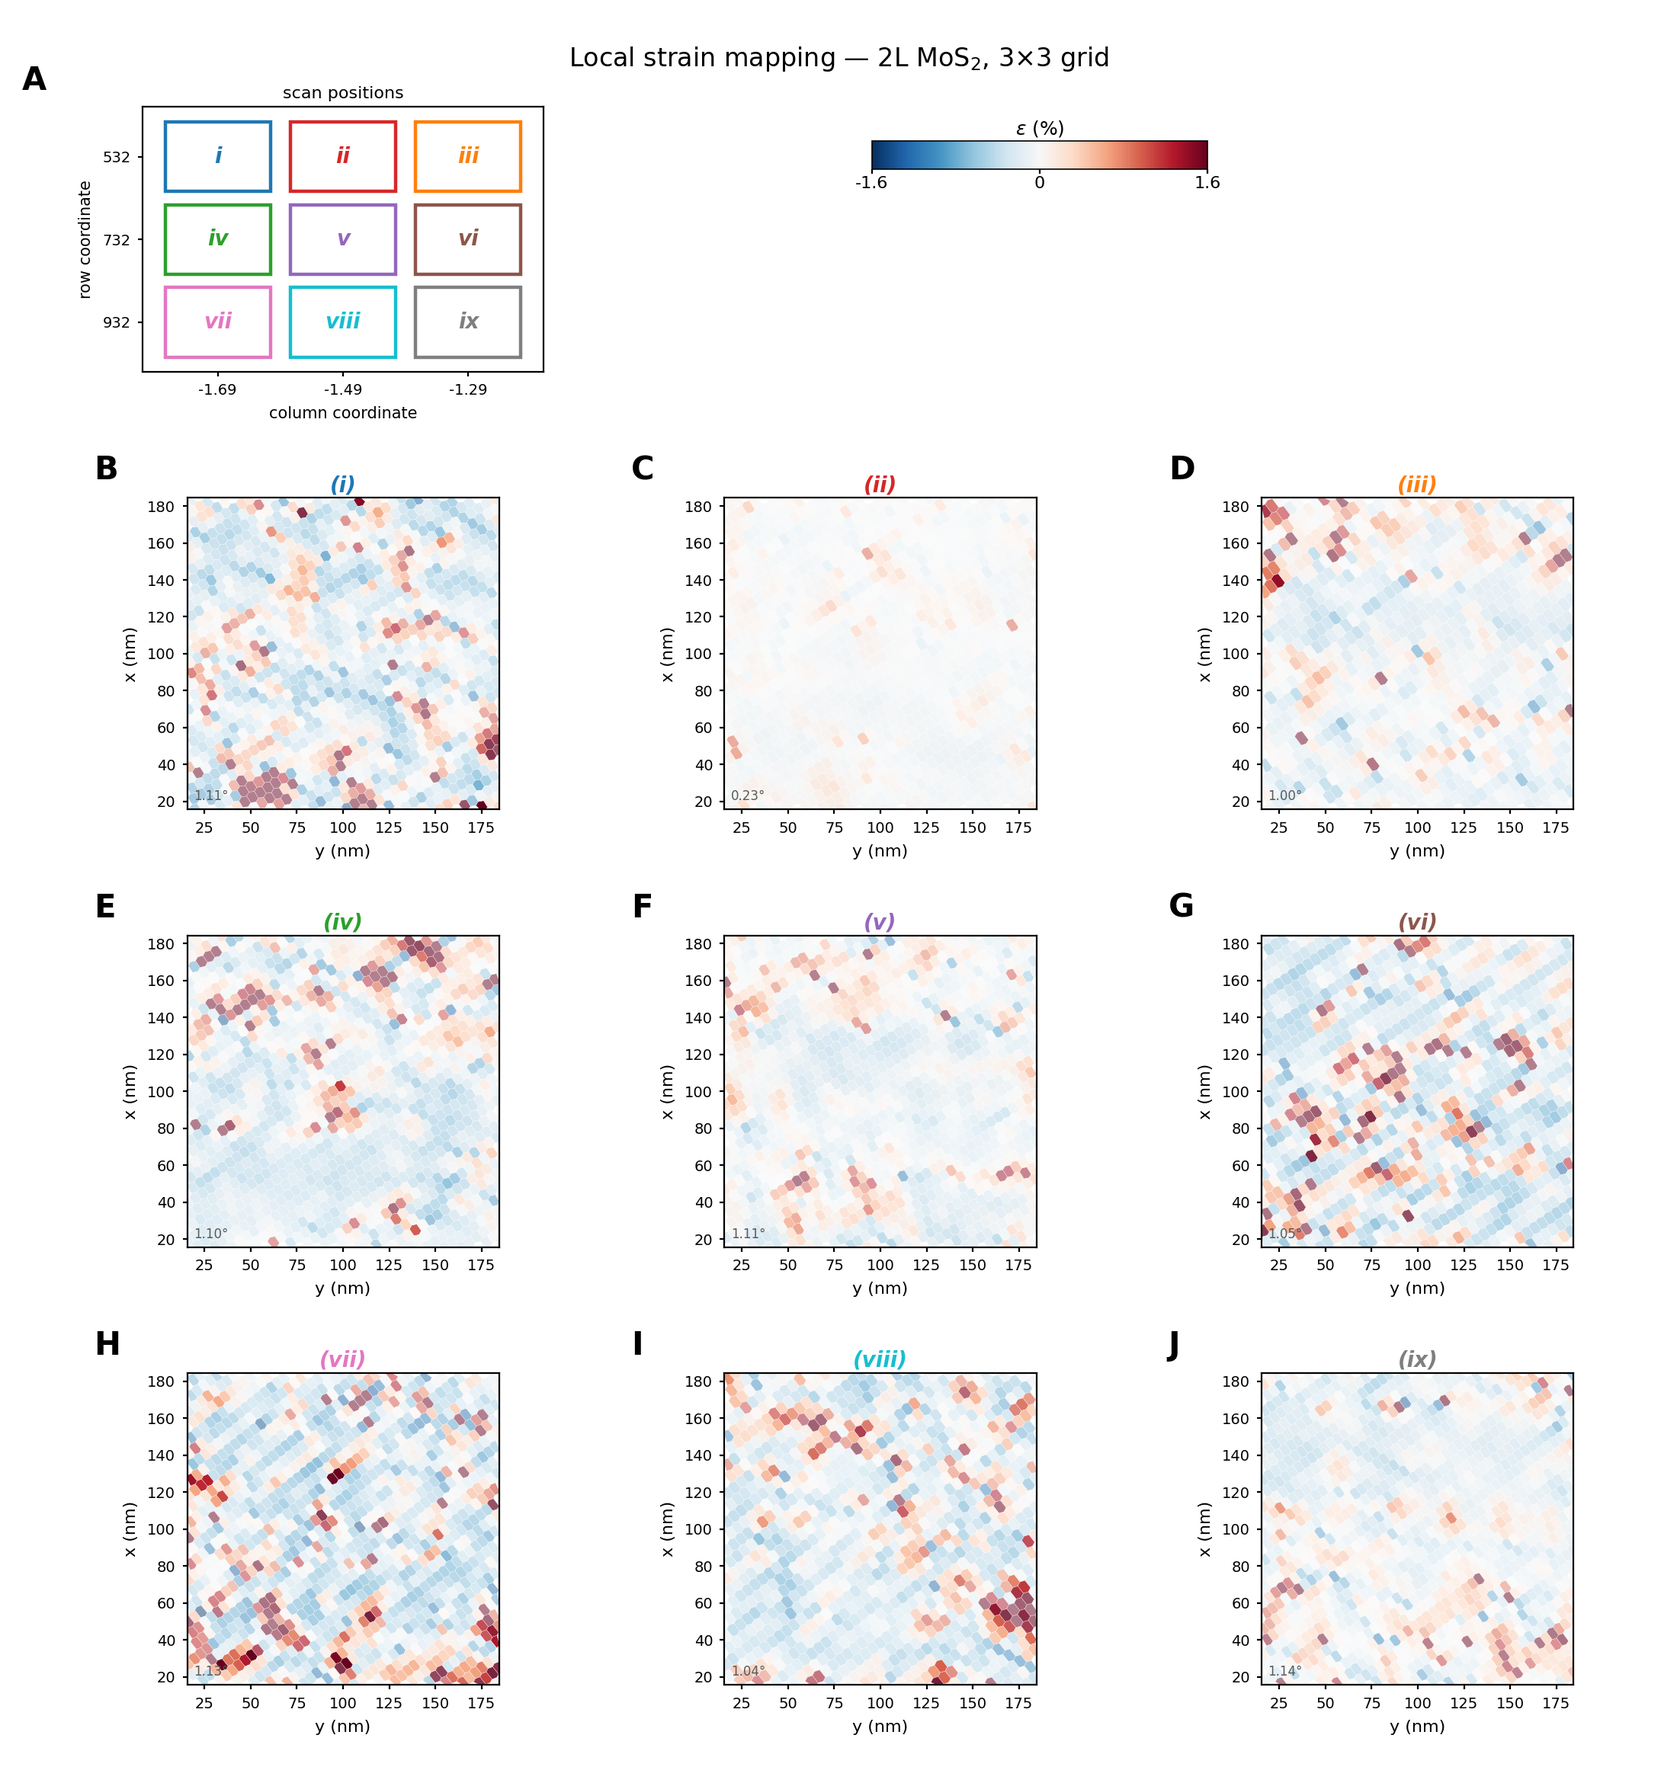
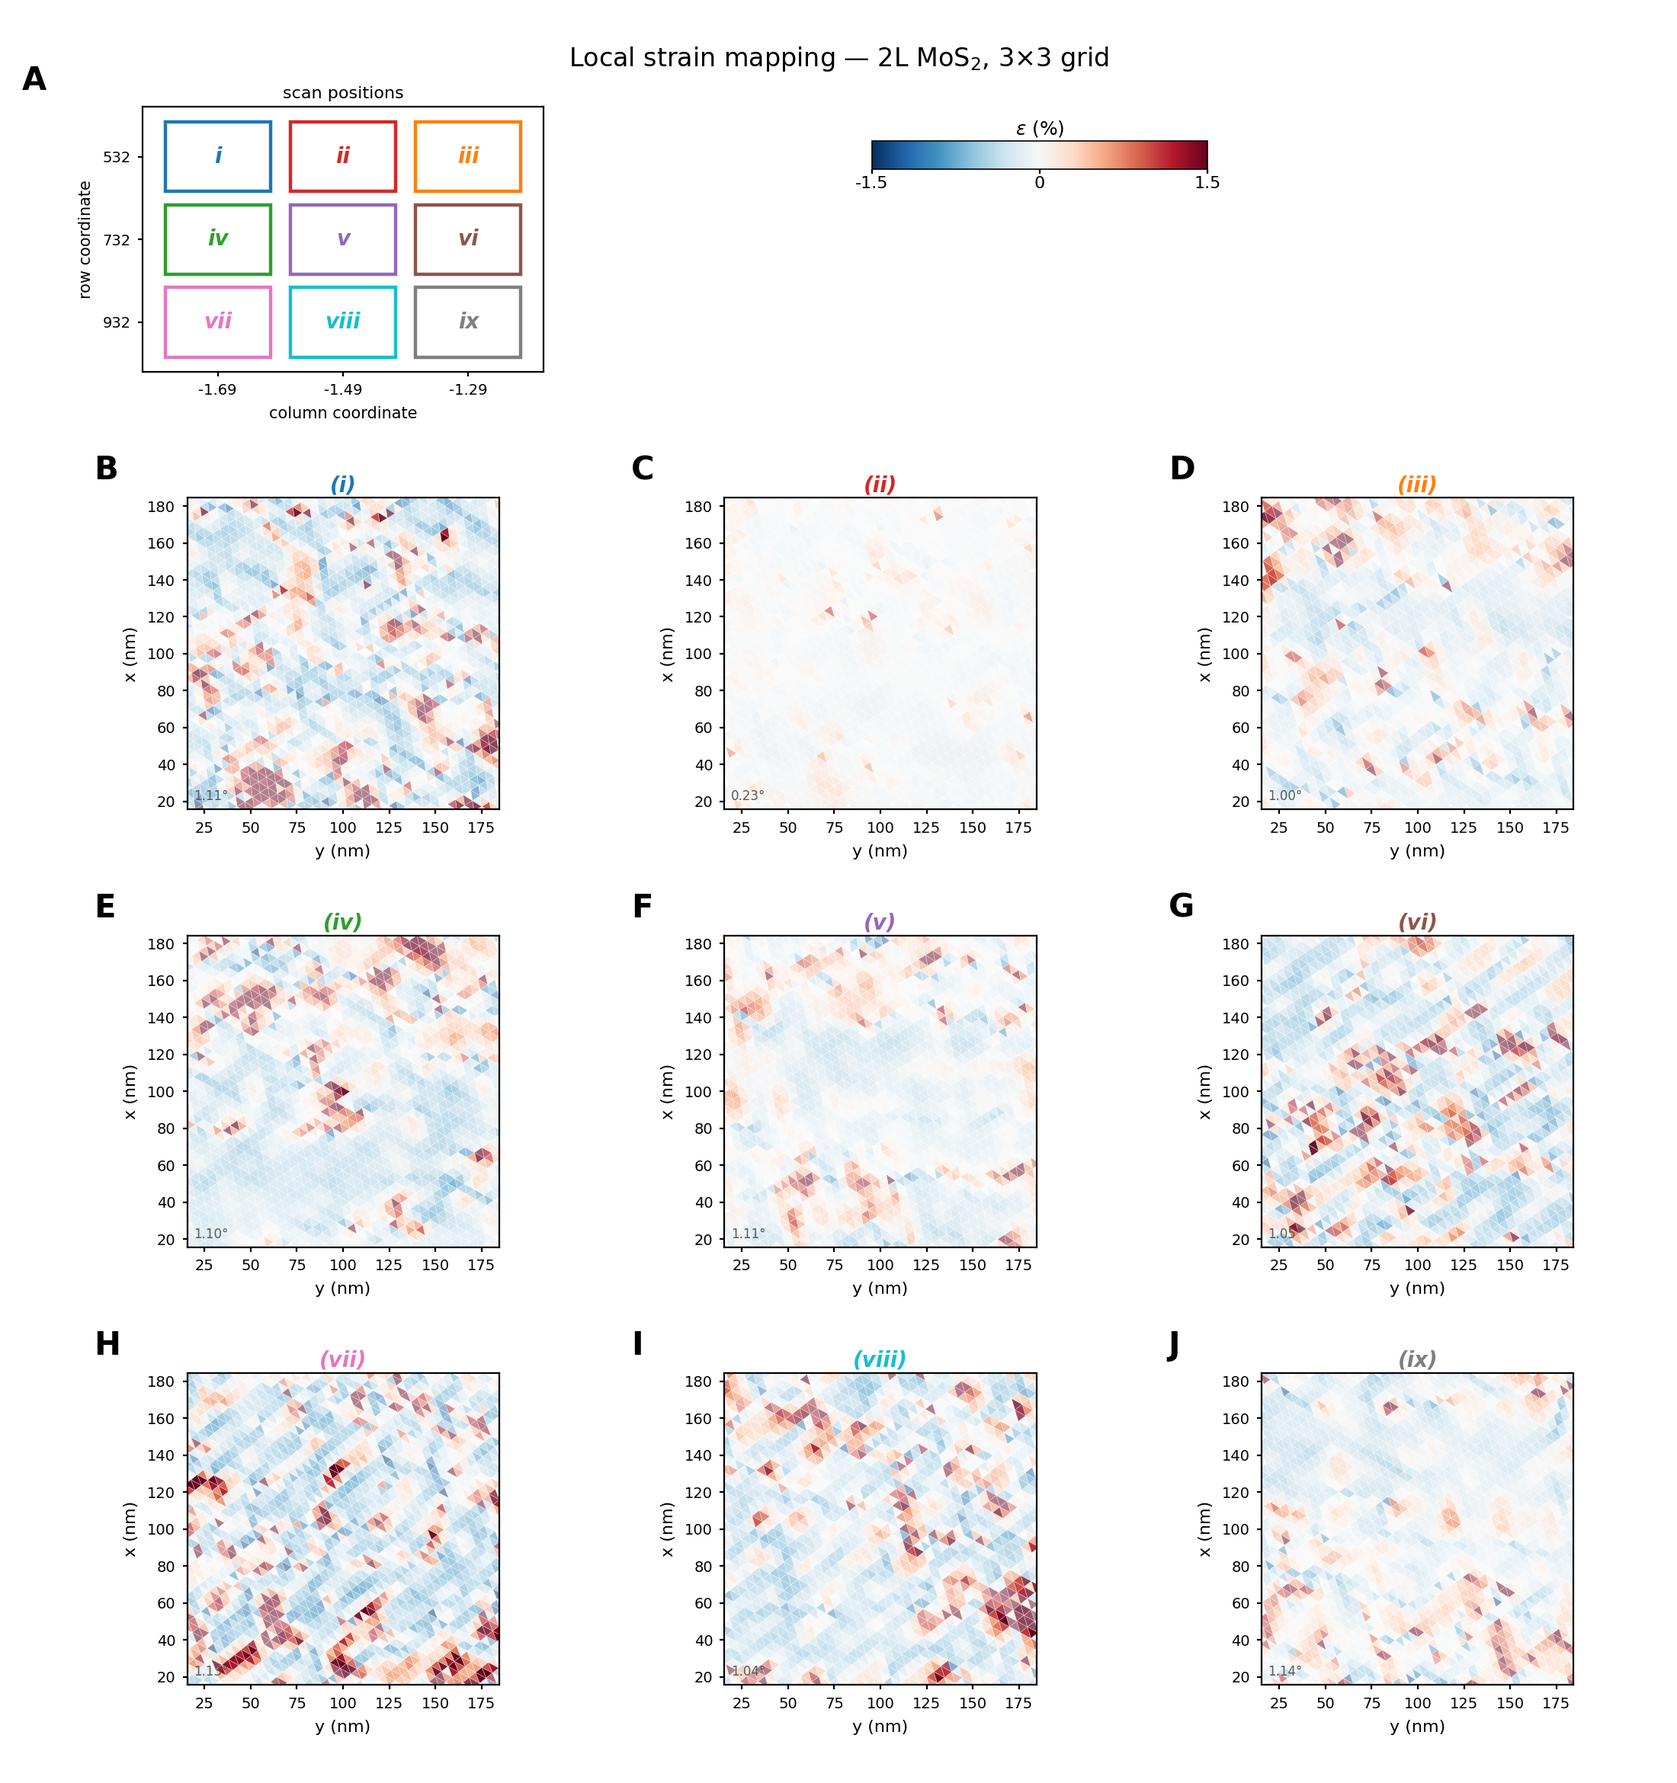
Tile the Fig. S13 strain map with Delaunay triangles
The paper builds its strain map from next-neighbour site distances, so the
natural tile is the triangle joining neighbouring moire sites, not the Voronoi
cell drawn around each one. Triangulating also closes the density gap with the
published panels, since a triangulation yields ~2x the site count in tiles: the
old hexagonal tiling ran ~1015 per panel against the paper's ~1709.

Subdivision moves into the presets, chosen per sample so the count lands nearest
that target. MoS2 at subdiv 3 gives 2038 (1.19x); WSe2, whose moire is ~4x
shorter, reaches 1917 (1.12x) at subdiv 2. Both overshoot, but the count goes as
subdiv**2, so the next step down undershoots by more than these overshoot. Scans
run without a preset keep the previous default of 3.

Convex-hull slivers are dropped on their longest edge. A triangular lattice
triangulates into near-equilateral triangles, so a long edge means Delaunay is
spanning a concave gap rather than joining a real neighbour pair.

Two README numbers were carried without verification and are now measured. 4x the
triangles (--subdiv 6) leaves median |eps| unchanged at 0.23 %, confirming that
subdividing adds display density and not noise. Widening the Bragg mask to
--sigma-frac 0.7 halves the field FWHM to ~8 nm but triples median |eps| to
0.73 %, where the text claimed ~36 %. The docstring's usage examples also still
said --sample, which 3c32633 renamed to --preset.

diff --git a/scripts/strainmap_figS13.py b/scripts/strainmap_figS13.py
@@ -2,9 +2,9 @@
 """
 Local strain mapping figure in the format of Science ade9995 Fig. S13.
 
-Formatting matched to the published figure: per-site hexagonal tiles (not a
-smooth field), RdBu_r diverging colormap centred on zero, a horizontal
-"epsilon (%)" colorbar, x (nm) on the vertical axis and y (nm) on the
+Formatting matched to the published figure: a Delaunay triangulation of the
+moire sites (not a smooth field), RdBu_r diverging colormap centred on zero, a
+horizontal "epsilon (%)" colorbar, x (nm) on the vertical axis and y (nm) on the
 horizontal, bold panel letters with colour-coded labels, and a panel A locating
 each map.
 
@@ -17,16 +17,22 @@ phase gradient, and
     epsilon(r) = theta * (L(r) - <L>) / <L>
 
 is the layer heterostrain whose moire amplification produces the observed local
-wavelength deviation, with theta the fitted twist in radians. Tiles are laid on
-the reconstructed moire lattice, optionally subdivided, and each Voronoi cell is
-coloured by epsilon at its centre.
+wavelength deviation, with theta the fitted twist in radians. Sites are laid on
+the reconstructed moire lattice, optionally subdivided, and each triangle of
+their Delaunay triangulation is coloured by epsilon at its centroid - the same
+next-neighbour site geometry the paper colours, read from the phase field.
 
-Tile spacing is display density, not resolution: the real resolution is set by
+Presets carry the subdivision that lands nearest the published triangle density
+(~1709): MoS2 at subdiv 3 gives ~2030 triangles, WSe2 - whose moire is ~4x
+shorter - at subdiv 2 gives ~1913. Both overshoot, but the count goes as
+subdiv**2, so the next step down undershoots by more than these overshoot.
+
+Triangle size is display density, not resolution: the real resolution is set by
 the Bragg mask width (--sigma-frac). Subdividing is free; widening the mask is
 not - it inflates noise and leaks the neighbouring Bragg peak.
 
-    python3 strainmap_figS13.py --sample MoS2_2L
-    python3 strainmap_figS13.py --sample WSe2
+    python3 strainmap_figS13.py --preset MoS2_2L
+    python3 strainmap_figS13.py --preset WSe2
 """
 import argparse
 import glob
@@ -40,7 +46,7 @@ matplotlib.use("Agg")
 import matplotlib.pyplot as plt
 from matplotlib.collections import PolyCollection
 from matplotlib.patches import Rectangle
-from scipy.spatial import Voronoi
+from scipy.spatial import Delaunay
 
 from moire_prep import load_ibw, level, nlm
 from moire_verify import lattice_points
@@ -57,12 +63,19 @@ from paths import RAW, GRID_FITS, results_for, sample_of
 # 2L0005 carries a second ~9.6 nm periodicity that a wide search legitimately
 # prefers over the ~4 nm moire the rest of the set shows. Pinning the band keeps
 # the published figures reproducible.
+# A preset also pins the subdivision, chosen so the triangle count lands near
+# the published one; see the module docstring.
 PRESETS = {
     "MoS2_2L": dict(material="MoS2", layout="grid", klo=0.025, khi=0.12,
-                    title=r"2L MoS$_2$, 3$\times$3 grid"),
+                    subdiv=3, title=r"2L MoS$_2$, 3$\times$3 grid"),
     "WSe2": dict(material="WSe2", layout="layers", klo=0.20, khi=0.36,
-                 title=r"WSe$_2$ multilayers"),
+                 subdiv=2, title=r"WSe$_2$ multilayers"),
 }
+
+# triangles per panel in the published Fig. S13, for the density report
+PAPER_TRIANGLES = 1709
+# an unknown sample gets the same starting density as MoS2
+DEFAULT_SUBDIV = 3
 
 ROW = {1: 0, 2: 0, 3: 0, 4: 1, 5: 1, 6: 1, 7: 2, 8: 2, 9: 2}
 COL = {1: 0, 2: 1, 3: 2, 4: 0, 5: 1, 6: 2, 7: 0, 8: 1, 9: 2}
@@ -72,7 +85,7 @@ TINT = ["#1f77b4", "#d62728", "#ff7f0e", "#2ca02c", "#9467bd",
         "#8c564b", "#e377c2", "#17becf", "#7f7f7f"]
 
 L_MIN, L_MAX, S_MAX = 13.0, 21.0, 1.5
-# weakest tiles keep this much opacity, so they are de-emphasised, not erased
+# weakest triangles keep this much opacity, so they are de-emphasised, not erased
 ALPHA_FLOOR = 0.5
 
 
@@ -157,31 +170,29 @@ def strain_field(path, cfg, crop=0.08, subdiv=3, sigma_frac=0.35):
                 L=res["lmean"], twist=res["solutions"][0]["twist"])
 
 
-def voronoi_tiles(pts, lo, hi):
-    """Hexagonal Voronoi tiles for the lattice points inside [lo, hi].
+def delaunay_tiles(pts, lo, hi):
+    """Delaunay triangles over the moire sites, those centred inside [lo, hi].
 
-    Points outside the box are tessellated but not drawn: they bound the cells of
-    the outermost drawn sites, which a naive clip would turn into large wedges.
+    The paper reads strain off next-neighbour site separations, so the triangles
+    joining neighbouring sites are the natural tile. Sites outside the box are
+    triangulated but their triangles are not drawn: they close the triangles of
+    the outermost drawn sites, which would otherwise leave a serrated edge.
+
+    A triangular lattice triangulates into near-equilateral triangles, so the
+    only irregular ones are the slivers Delaunay lays along the convex hull to
+    span concave gaps. They are dropped on their longest edge.
     """
-    vor = Voronoi(pts)
-    inside = ((pts[:, 0] >= lo) & (pts[:, 0] <= hi) &
-              (pts[:, 1] >= lo) & (pts[:, 1] <= hi))
-    polys, centers = [], []
-    for i in np.where(inside)[0]:
-        region = vor.regions[vor.point_region[i]]
-        if not region or -1 in region:
-            continue
-        poly = np.clip(vor.vertices[region], lo, hi)
-        if poly.shape[0] >= 3:
-            polys.append(poly)
-            centers.append(pts[i])
-    if not polys:
+    if len(pts) < 3:
         return [], np.empty((0, 2))
-    areas = np.array([0.5 * abs(np.dot(p[:, 0], np.roll(p[:, 1], 1)) -
-                                np.dot(p[:, 1], np.roll(p[:, 0], 1)))
-                      for p in polys])
-    keep = areas < 2.5 * np.median(areas)
-    return ([p for p, k in zip(polys, keep) if k], np.array(centers)[keep])
+    tri = np.asarray(pts)[Delaunay(pts).simplices]        # (T, 3, 2)
+    cen = tri.mean(axis=1)
+    inside = ((cen[:, 0] >= lo) & (cen[:, 0] <= hi) &
+              (cen[:, 1] >= lo) & (cen[:, 1] <= hi))
+    if not inside.any():
+        return [], np.empty((0, 2))
+    longest = np.linalg.norm(tri - np.roll(tri, 1, axis=1), axis=2).max(axis=1)
+    keep = inside & (longest < 1.5 * np.median(longest[inside]))
+    return list(tri[keep]), cen[keep]
 
 
 def panel_a(ax, layout, entries):
@@ -247,17 +258,20 @@ def main():
     ap.add_argument("--pct", type=float, default=98.0,
                     help="percentile of |eps| that sets the colour limit "
                          "(default 99). Higher = wider scale = fewer saturated "
-                         "tiles, closer to the pale look of the published figure")
-    ap.add_argument("--subdiv", type=int, default=3,
-                    help="tile-lattice subdivision; spacing becomes L/subdiv. "
-                         "Display density only - samples the same field more "
-                         "finely without adding noise (default 3)")
+                         "triangles, closer to the pale look of the published "
+                         "figure")
+    ap.add_argument("--subdiv", type=int, default=None,
+                    help="site-lattice subdivision; site spacing, and so the "
+                         "triangle edge, becomes L/subdiv. Display density only "
+                         "- samples the same field more finely without adding "
+                         "noise. Defaults to the preset's value, chosen to land "
+                         "near the paper's ~1709 triangles (MoS2 3, WSe2 2)")
     ap.add_argument("--sigma-frac", type=float, default=0.35,
                     help="Bragg mask width in units of |k| (default 0.35). "
                          "Widening genuinely sharpens the field but inflates "
                          "noise and leaks the neighbouring peak")
     ap.add_argument("--amp-pct", type=float, default=25.0,
-                    help="tiles below this percentile of local Bragg amplitude "
+                    help="triangles below this percentile of local Bragg amplitude "
                          "fade out, since a weak moire signal gives an "
                          "unreliable phase gradient; 0 disables (default 25)")
     ap.add_argument("--crop", type=float, default=0.08)
@@ -286,17 +300,18 @@ def main():
         out_sample = sample_of(args.path)
     if args.lo is not None:
         cfg["klo"], cfg["khi"] = args.lo, args.hi
+    subdiv = args.subdiv or cfg.get("subdiv", DEFAULT_SUBDIV)
     fields, tiles = {}, {}
     for e in entries:
-        f = strain_field(e["path"], cfg, args.crop, args.subdiv, args.sigma_frac)
+        f = strain_field(e["path"], cfg, args.crop, subdiv, args.sigma_frac)
         if f is None:
             print(f"  {e['tag']}: no hexagon, skipped")
             continue
         lo = f["m"] * f["px"]
         hi = (f["n"] - f["m"]) * f["px"]
-        polys, centers = voronoi_tiles(f["pts"], lo, hi)
+        polys, centers = delaunay_tiles(f["pts"], lo, hi)
         if not len(centers):
-            print(f"  {e['tag']}: no tiles, skipped")
+            print(f"  {e['tag']}: no triangles, skipped")
             continue
         ei = np.clip(((centers[:, 1] - lo) / f["px"]).astype(int),
                      0, f["eps"].shape[0] - 1)
@@ -305,7 +320,7 @@ def main():
         fields[e["tag"]] = (e, f, lo, hi)
         tiles[e["tag"]] = (polys, f["eps"][ei, ej], f["amp"][ei, ej])
         print(f"  {e['tag']}: L={f['L']:.2f} nm  twist={f['twist']:.2f} deg  "
-              f"{len(polys)} tiles")
+              f"{len(polys)} triangles")
 
     if not fields:
         print("no usable scans")
@@ -316,14 +331,16 @@ def main():
     sat = 100.0 * np.mean(np.abs(allbits) > vmax)
     frac = 100.0 * np.mean(np.abs(allbits) > 0.3)
     Lm = np.mean([f["L"] for _, f, _, _ in fields.values()])
-    spacing = Lm / args.subdiv
+    spacing = Lm / subdiv
     fwhm = 2.355 / (2 * np.pi * args.sigma_frac * (2 / (np.sqrt(3) * Lm)))
+    ntri = int(np.mean([len(v) for _, v, _ in tiles.values()]))
     print(f"\ncolour limit +/- {vmax:.2f} % (p{args.pct:g})   median |eps| = "
-          f"{np.median(np.abs(allbits)):.2f} %   {sat:.1f} % of tiles saturate")
-    print(f"the paper uses +/- 0.3 %; {frac:.0f} % of these tiles exceed that")
-    print(f"{int(np.mean([len(v) for _, v, _ in tiles.values()]))} tiles/panel   "
-          f"spacing {spacing:.2f} nm   field FWHM ~{fwhm:.1f} nm "
-          f"({fwhm/spacing:.1f}x oversampled, neighbouring tiles correlated)")
+          f"{np.median(np.abs(allbits)):.2f} %   {sat:.1f} % of triangles saturate")
+    print(f"the paper uses +/- 0.3 %; {frac:.0f} % of these triangles exceed that")
+    print(f"{ntri} triangles/panel (subdiv {subdiv}; the paper's panels carry "
+          f"~{PAPER_TRIANGLES}, so {ntri/PAPER_TRIANGLES:.2f}x)")
+    print(f"site spacing {spacing:.2f} nm = triangle edge   field FWHM ~{fwhm:.1f} nm "
+          f"({fwhm/spacing:.1f}x oversampled, neighbouring triangles correlated)")
 
     if cfg["layout"] == "grid":
         nrows, ratios = 4, [0.85, 1, 1, 1]
@@ -366,8 +383,8 @@ def main():
         ax = fig.add_subplot(gs[e["slot"][0], e["slot"][1]])
         polys, vals, amps = tiles[tag]
         # opacity tracks the local Bragg amplitude: where the moire signal is
-        # weak the phase gradient is unreliable, so those tiles fade towards the
-        # background instead of showing a confident-looking spurious spike
+        # weak the phase gradient is unreliable, so those triangles fade towards
+        # the background instead of showing a confident-looking spurious spike
         cols = plt.cm.RdBu_r(plt.Normalize(-vmax, vmax)(vals))
         if args.amp_pct > 0:
             a0 = np.percentile(amps, args.amp_pct)

diff --git a/README.md b/README.md
@@ -110,22 +110,32 @@ One resolvable hexagon per scan — see the caveat below.
   Median |ε| is 0.23 %, comparable to the paper's ±0.3 % range, but the
   distribution is heavy-tailed. The colour limit defaults to the 98th percentile
   of |ε| (`--pct`), which keeps the pale look of the published figure instead of
-  saturating a fifth of the tiles. Tile opacity tracks the local Bragg amplitude
-  (`--amp-pct`): where the moire signal is weak the phase gradient is
-  unreliable, so those tiles fade rather than showing a confident-looking spike.
+  saturating a fifth of the triangles. Triangle opacity tracks the local Bragg
+  amplitude (`--amp-pct`): where the moire signal is weak the phase gradient is
+  unreliable, so those fade rather than showing a confident-looking spike.
   Neither control alters the values — only how they are displayed.
 - **WSe₂ strain magnitudes are not comparable to MoS₂ ones.** Median |ε| is
   0.77 % for WSe₂ vs 0.23 % for MoS₂, but ε = θ·(δL/L), and WSe₂'s twist (4.6°)
   is 4.3× MoS₂'s (1.07°). The same fractional wavelength noise therefore maps to
   ~4.3× larger ε — 0.23 × 4.3 ≈ 1.0 %, close to what is seen. Most of the
   difference is that scaling, not more strain. Compare ε only within a sample.
-- **Tile density is display resolution, not information.** ~1015 tiles/panel at
+- **The tiles are Delaunay triangles, matched to the paper's density.** The paper
+  colours the triangles joining next-neighbour moiré sites, so the sites are
+  triangulated rather than given Voronoi cells; the triangle count comes out at
+  ~2× the site count. Each preset pins the subdivision landing nearest the
+  published ~1709 triangles/panel: MoS₂ at 3 gives 2038 (1.19×), WSe₂ — whose
+  moiré is ~4× shorter — at 2 gives 1917 (1.12×). Both overshoot, but the count
+  goes as subdiv², so one step down undershoots by more. A scan run without a
+  preset falls back to 3.
+- **Triangle density is display resolution, not information.** MoS₂ sits at
   5.7 nm spacing, but the field's true resolution is FWHM ~16 nm, set by the
-  Bragg mask (`--sigma-frac`, default 0.35). Tiles are therefore ~2.8x
+  Bragg mask (`--sigma-frac`, default 0.35). Triangles are therefore ~2.8x
   oversampled and neighbours are correlated. Subdividing costs nothing —
-  4x the tiles left median |ε| unchanged at 0.153 → 0.154 % — but *widening the
-  mask* to buy real resolution inflates strain ~36 % in noise and leaks the
-  neighbouring Bragg peak, so it is not a free lunch. Read patterns, not tiles.
+  `--subdiv 6`, 4x the triangles, left median |ε| unchanged at 0.23 % — but
+  *widening the mask* to buy real resolution is not a free lunch: `--sigma-frac
+  0.7` halves the FWHM to ~8 nm and triples median |ε| to 0.73 %, which is noise
+  plus leakage from the neighbouring Bragg peak, not strain. Read patterns, not
+  individual triangles.
 - **The WSe₂ multilayers.** A trilayer has two twisted interfaces, but the fitter
   finds only one hexagon per scan. That is consistent with L3 sitting near L1's
   orientation — the two ~4° moirés then nearly coincide, and the L1–L3 moiré moves
